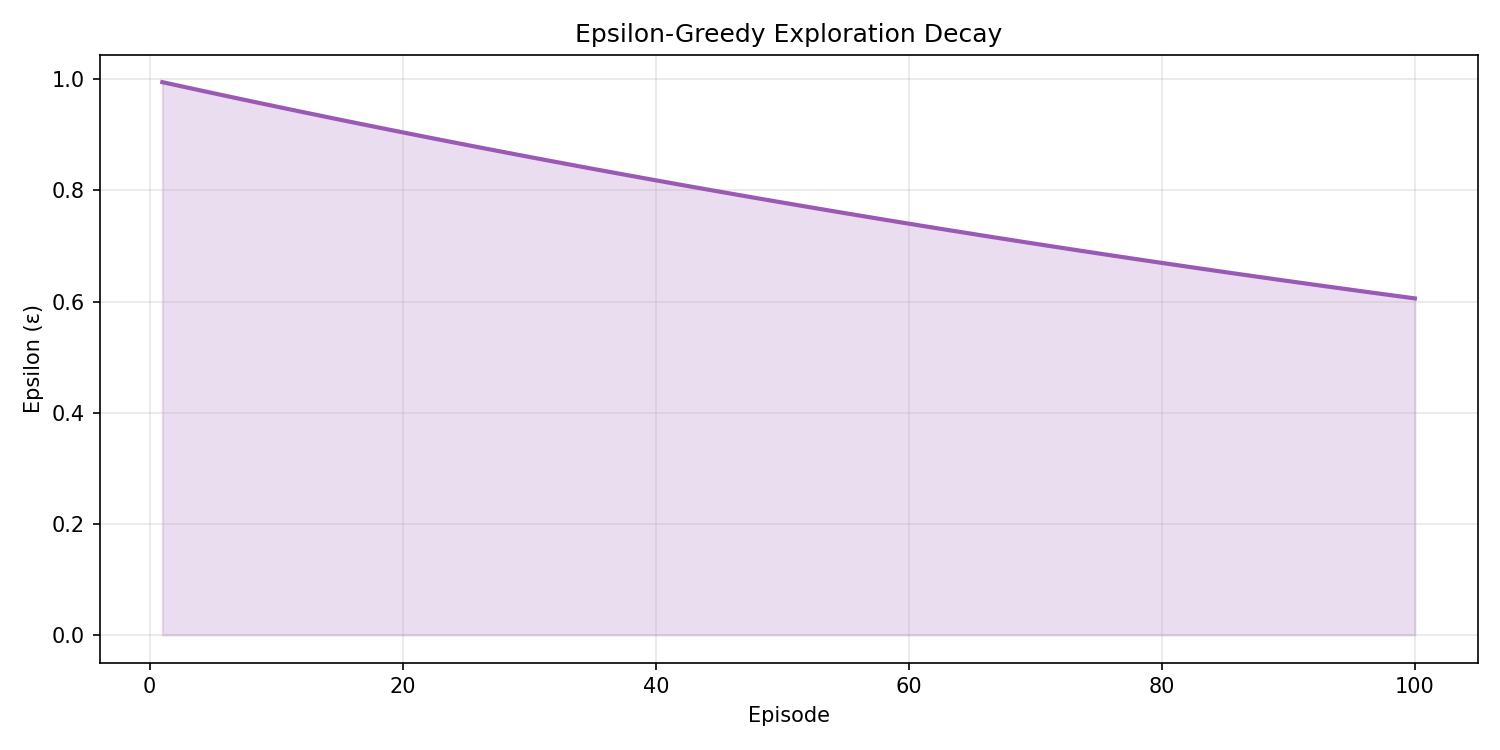
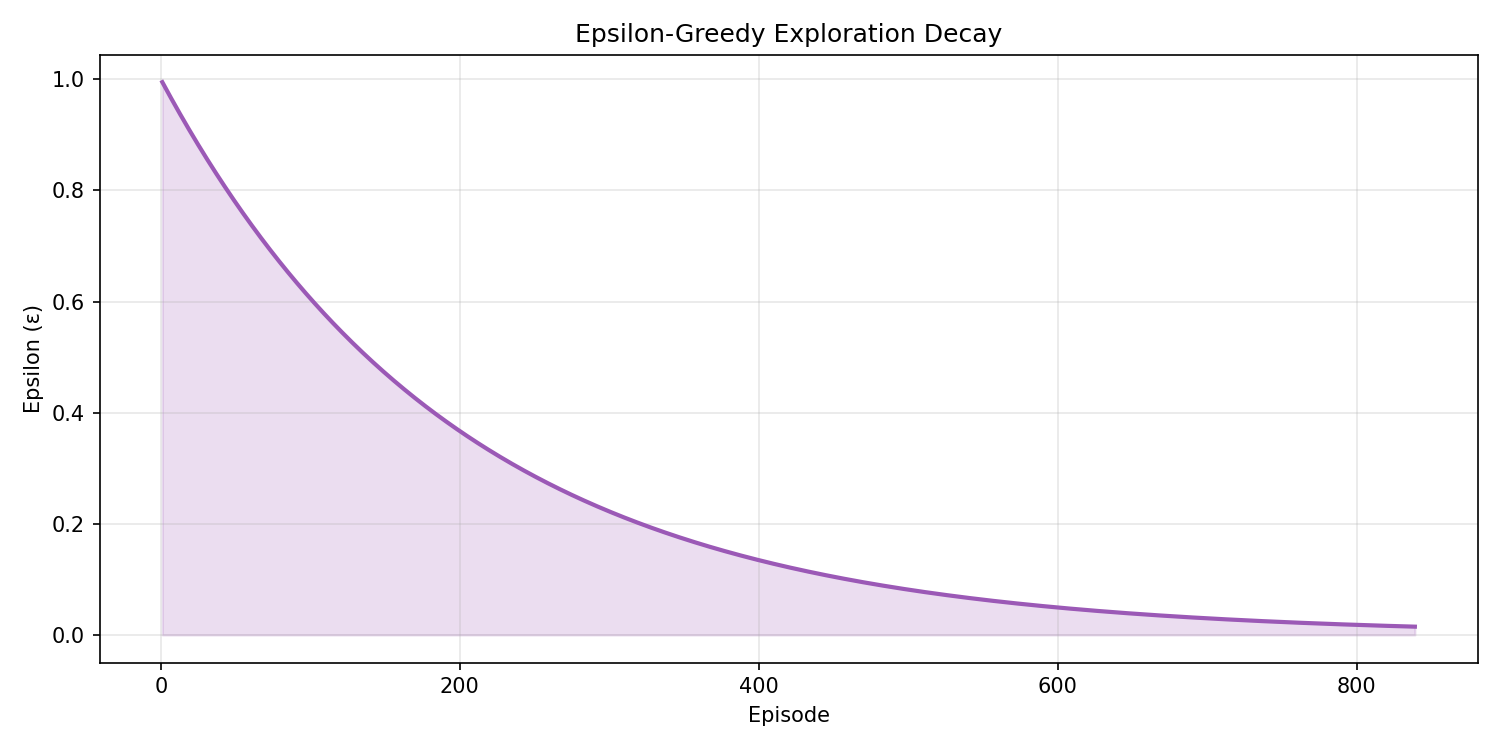
tuned target update freq

diff --git a/src/tune.py b/src/tune.py
@@ -1,0 +1,66 @@
+import yaml
+import numpy as np
+import time
+from src.train import train
+
+def run_tuning():
+    print("="*50)
+    print("  Day 9: Hyperparameter Tuning Run")
+    print("="*50)
+
+    # We will test 3 different Target Update Frequencies and Learning Rates
+    # to see which one provides the most consistent and fastest convergence.
+    
+    configs_to_test = [
+        {"target_update_freq": 1000, "learning_rate": 0.001, "name": "Baseline"},
+        {"target_update_freq": 500,  "learning_rate": 0.001, "name": "Fast Target Update"},
+        {"target_update_freq": 1000, "learning_rate": 0.0005, "name": "Conservative LR"},
+    ]
+
+    best_config = None
+    best_convergence = 10000
+
+    for cfg in configs_to_test:
+        print(f"\n--- Testing Config: {cfg['name']} ---")
+        print(f"Target Update Freq: {cfg['target_update_freq']} | LR: {cfg['learning_rate']}")
+        
+        # Load and dynamically patch the default yaml
+        with open("configs/default.yaml", "r") as f:
+            full_cfg = yaml.safe_load(f)
+            
+        full_cfg["agent"]["target_update_freq"] = cfg["target_update_freq"]
+        full_cfg["agent"]["learning_rate"] = cfg["learning_rate"]
+        
+        with open("configs/temp_tune.yaml", "w") as f:
+            yaml.dump(full_cfg, f)
+            
+        # Run training
+        try:
+            results = train(config_path="configs/temp_tune.yaml")
+            conv_ep = results.get("convergence_episode")
+            
+            if conv_ep is not None and conv_ep < best_convergence:
+                best_convergence = conv_ep
+                best_config = cfg
+        except Exception as e:
+            print(f"Failed: {e}")
+
+    print("\n" + "="*50)
+    if best_config:
+        print(f"🥇 BEST CONFIGURATON: {best_config['name']}")
+        print(f"Converged at Episode: {best_convergence}")
+        
+        # Update default config permanently
+        with open("configs/default.yaml", "r") as f:
+            final_cfg = yaml.safe_load(f)
+        final_cfg["agent"]["target_update_freq"] = best_config["target_update_freq"]
+        final_cfg["agent"]["learning_rate"] = best_config["learning_rate"]
+        with open("configs/default.yaml", "w") as f:
+            yaml.dump(final_cfg, f, default_flow_style=False)
+        print("Updated configs/default.yaml with best hyperparameters.")
+    else:
+        print("None of the configurations converged! Reverting to baseline.")
+    print("="*50)
+
+if __name__ == "__main__":
+    run_tuning()
